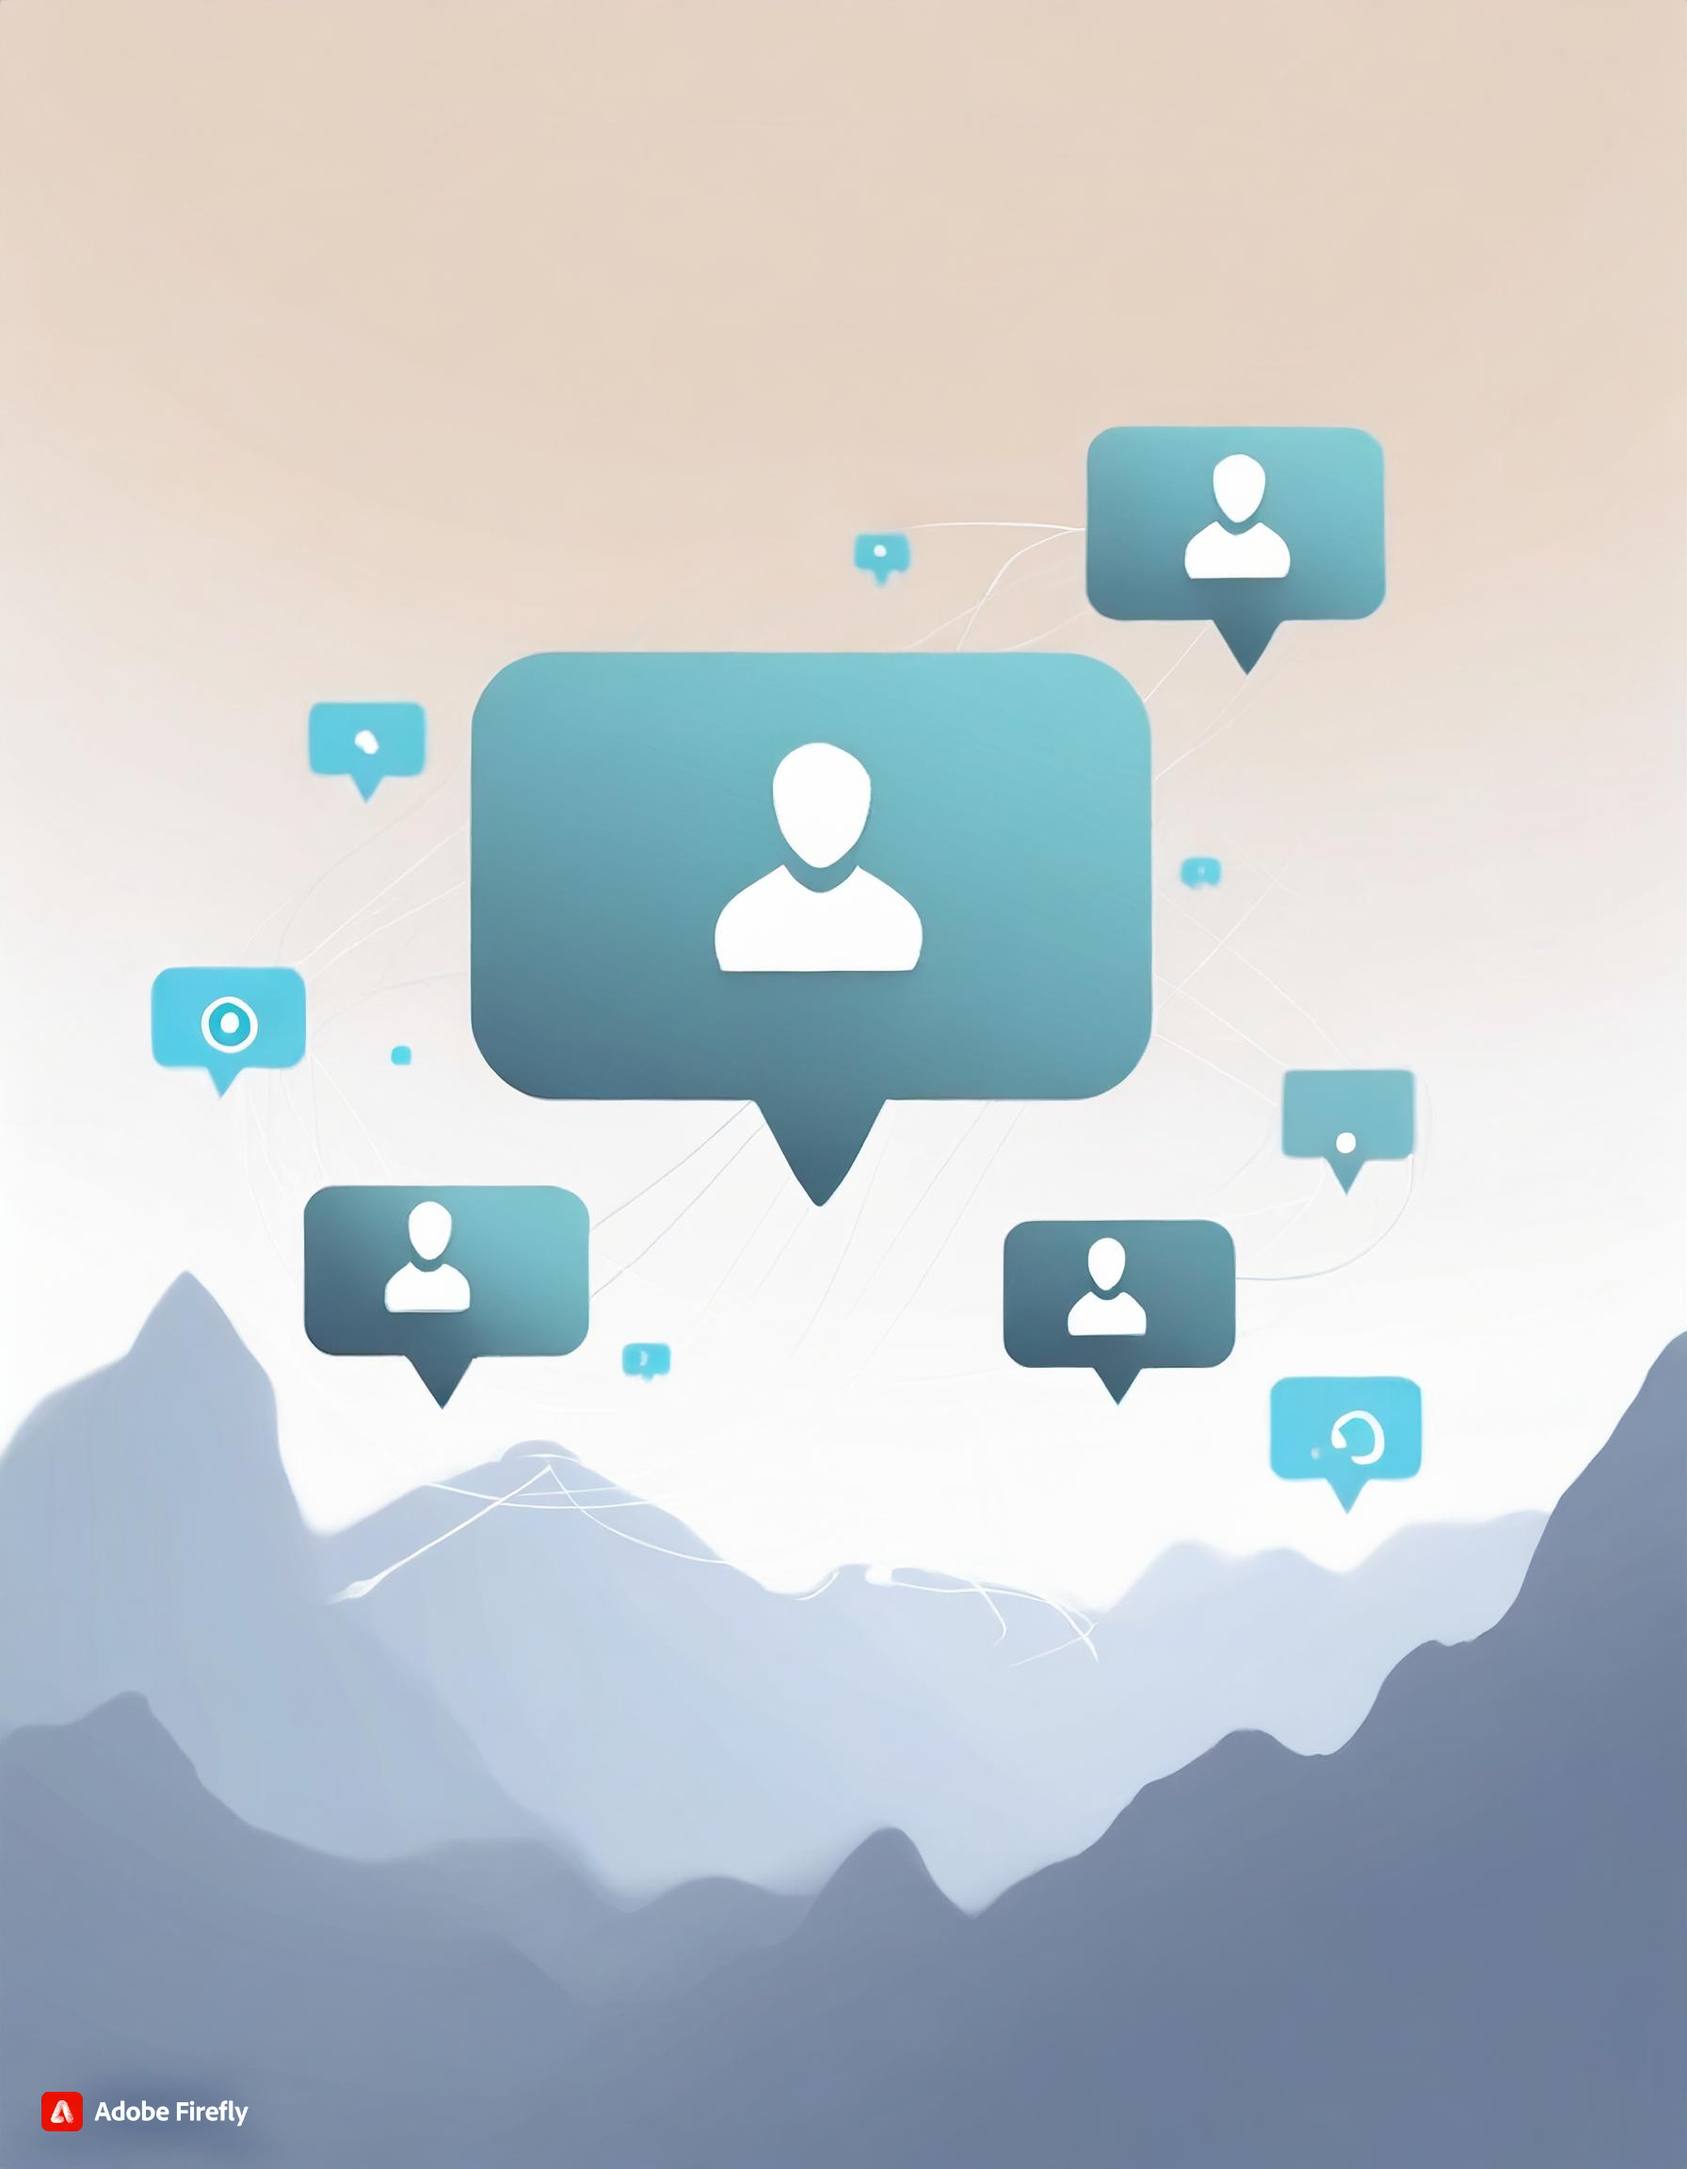
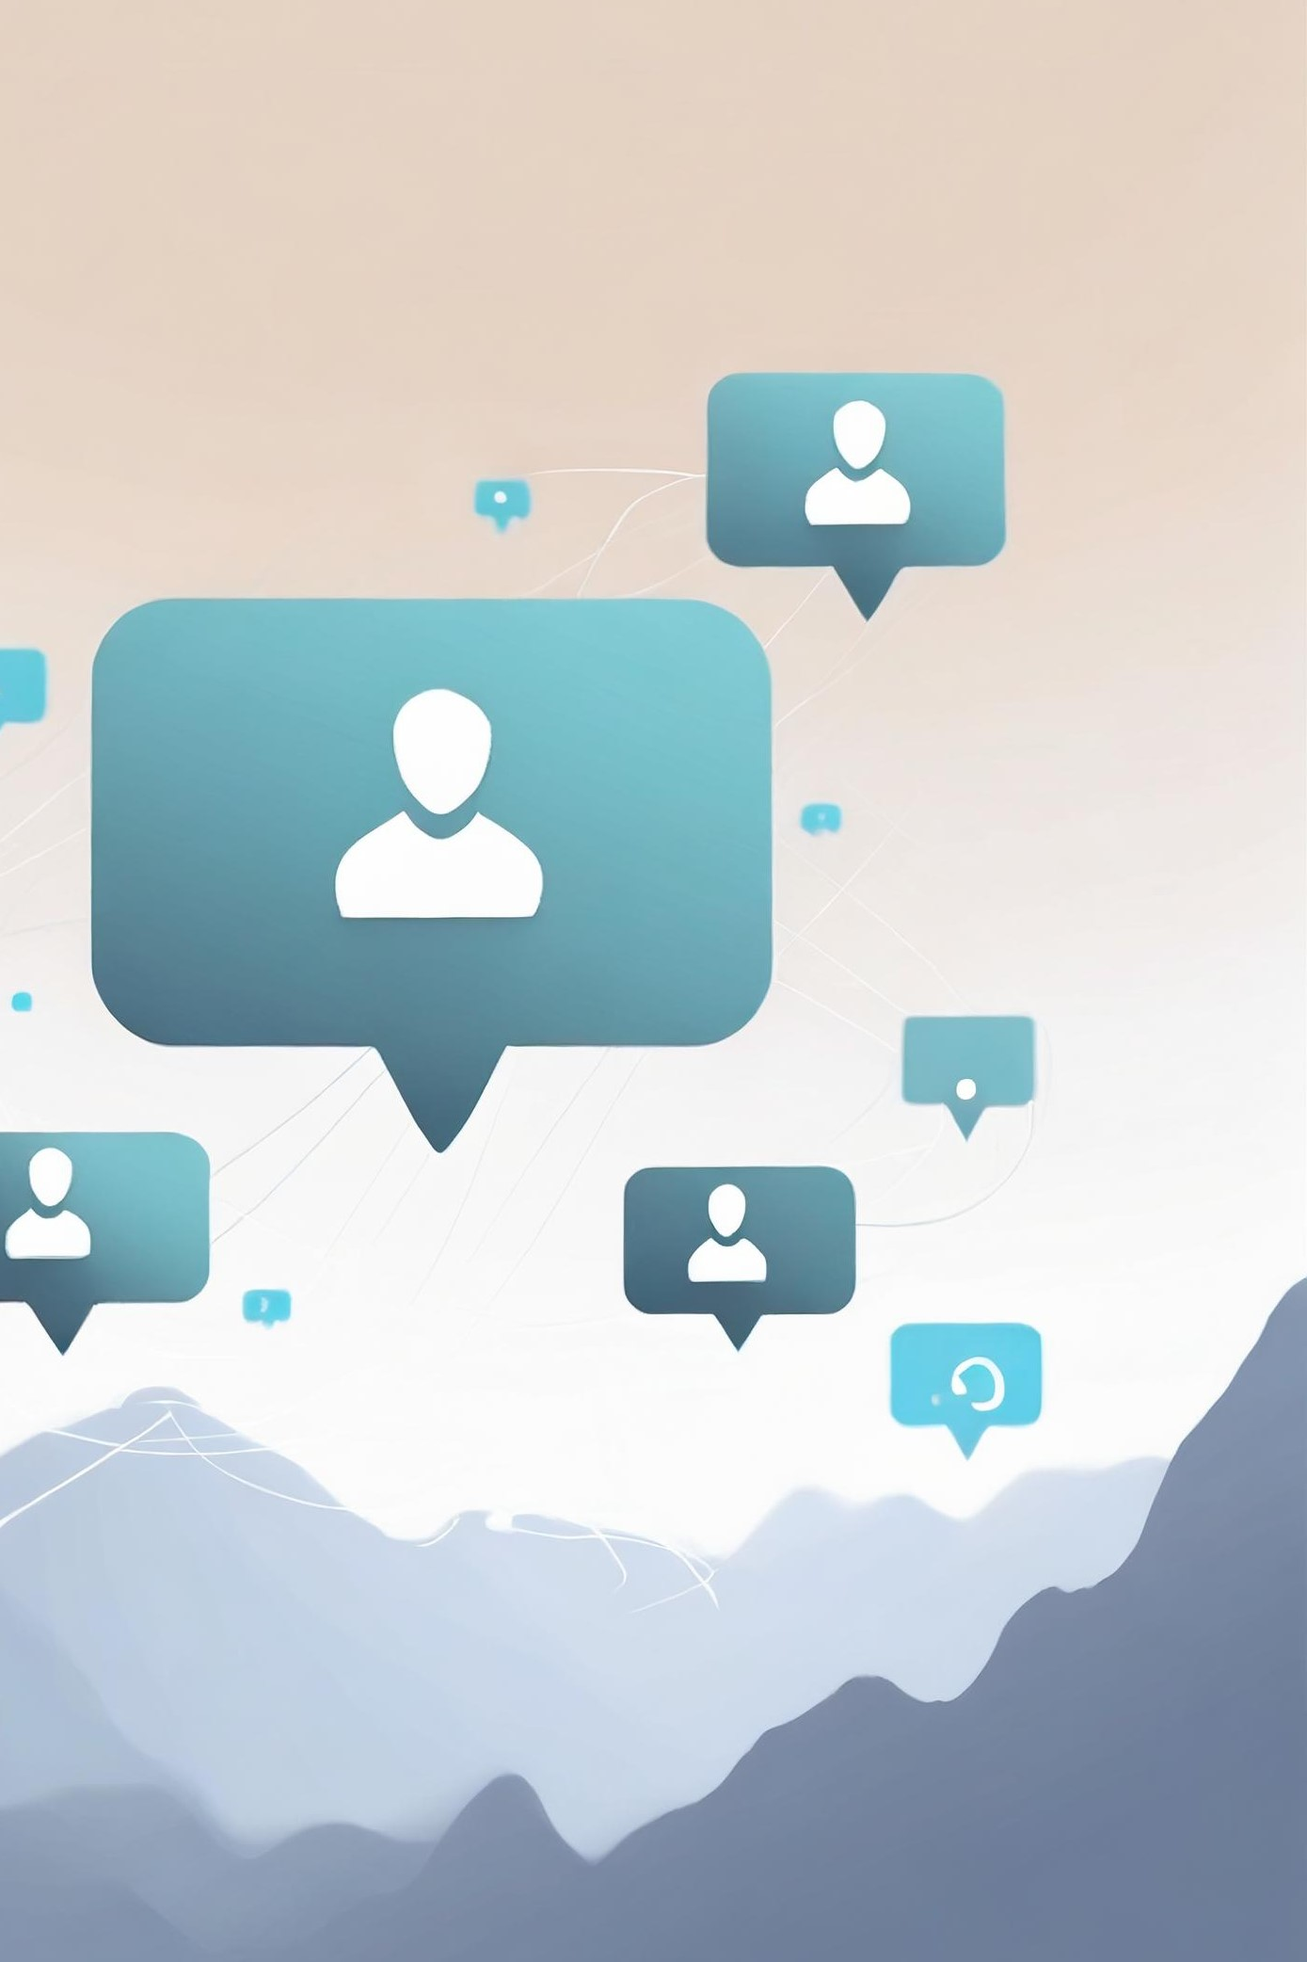
./

diff --git a/Frontend/src/components/main.css b/Frontend/src/components/main.css
@@ -142,7 +142,8 @@ background-size:contain;
 @media only screen and (max-width: 600px) {
   .mainpg{
     background-image: url(../assets/Bg-img-phone.jpg);
-    background-size: contain;
+    background-size: cover;
+    height: 88vh;
   }
  .mainpg input{
   width: 70vw;
